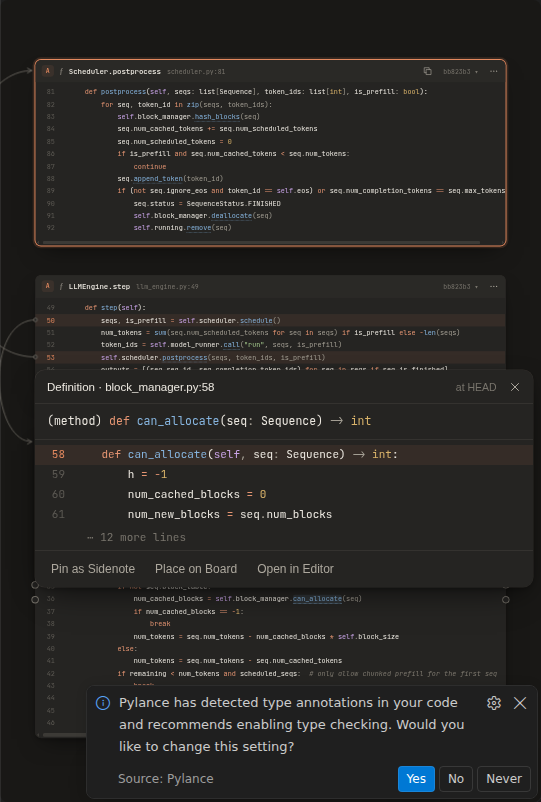
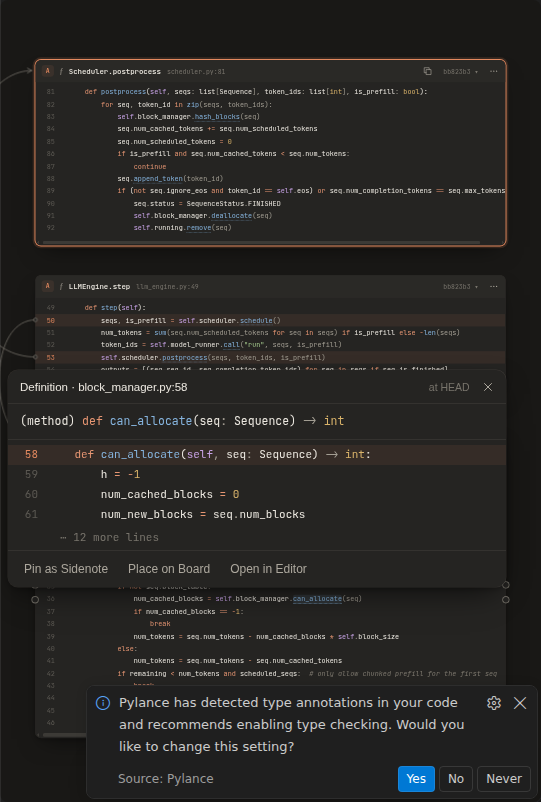
screenshots: branches/main @ 313a695

diff --git a/branches/main/diff/summary.md b/branches/main/diff/summary.md
@@ -1,37 +1,5 @@
-**Screenshot diff**: 9 steps, 9 changed.
+**Screenshot diff**: 9 steps, 1 changed.
 
-**1-first-card** · changed · 1.7% of pixels
-
-![1-first-card.png](https://github.com/yhnocoder/codeboard/blob/ci-screenshots/branches/main/diff/1-first-card.png?raw=true)
-
-**2-flow** · changed · 8.6% of pixels
-
-![2-flow.png](https://github.com/yhnocoder/codeboard/blob/ci-screenshots/branches/main/diff/2-flow.png?raw=true)
-
-**3-peek** · changed · 8.0% of pixels
+**3-peek** · changed · 1.7% of pixels
 
 ![3-peek.png](https://github.com/yhnocoder/codeboard/blob/ci-screenshots/branches/main/diff/3-peek.png?raw=true)
-
-**4-sidenote** · changed · 10.1% of pixels
-
-![4-sidenote.png](https://github.com/yhnocoder/codeboard/blob/ci-screenshots/branches/main/diff/4-sidenote.png?raw=true)
-
-**5-search** · changed · 7.7% of pixels
-
-![5-search.png](https://github.com/yhnocoder/codeboard/blob/ci-screenshots/branches/main/diff/5-search.png?raw=true)
-
-**6-board** · changed · 4.0% of pixels
-
-![6-board.png](https://github.com/yhnocoder/codeboard/blob/ci-screenshots/branches/main/diff/6-board.png?raw=true)
-
-**7-uncommitted** · changed · 4.1% of pixels
-
-![7-uncommitted.png](https://github.com/yhnocoder/codeboard/blob/ci-screenshots/branches/main/diff/7-uncommitted.png?raw=true)
-
-**7a-settings** · new
-
-![7a-settings.png](https://github.com/yhnocoder/codeboard/blob/ci-screenshots/branches/main/diff/7a-settings.png?raw=true)
-
-**7b-diagnostics** · new
-
-![7b-diagnostics.png](https://github.com/yhnocoder/codeboard/blob/ci-screenshots/branches/main/diff/7b-diagnostics.png?raw=true)
